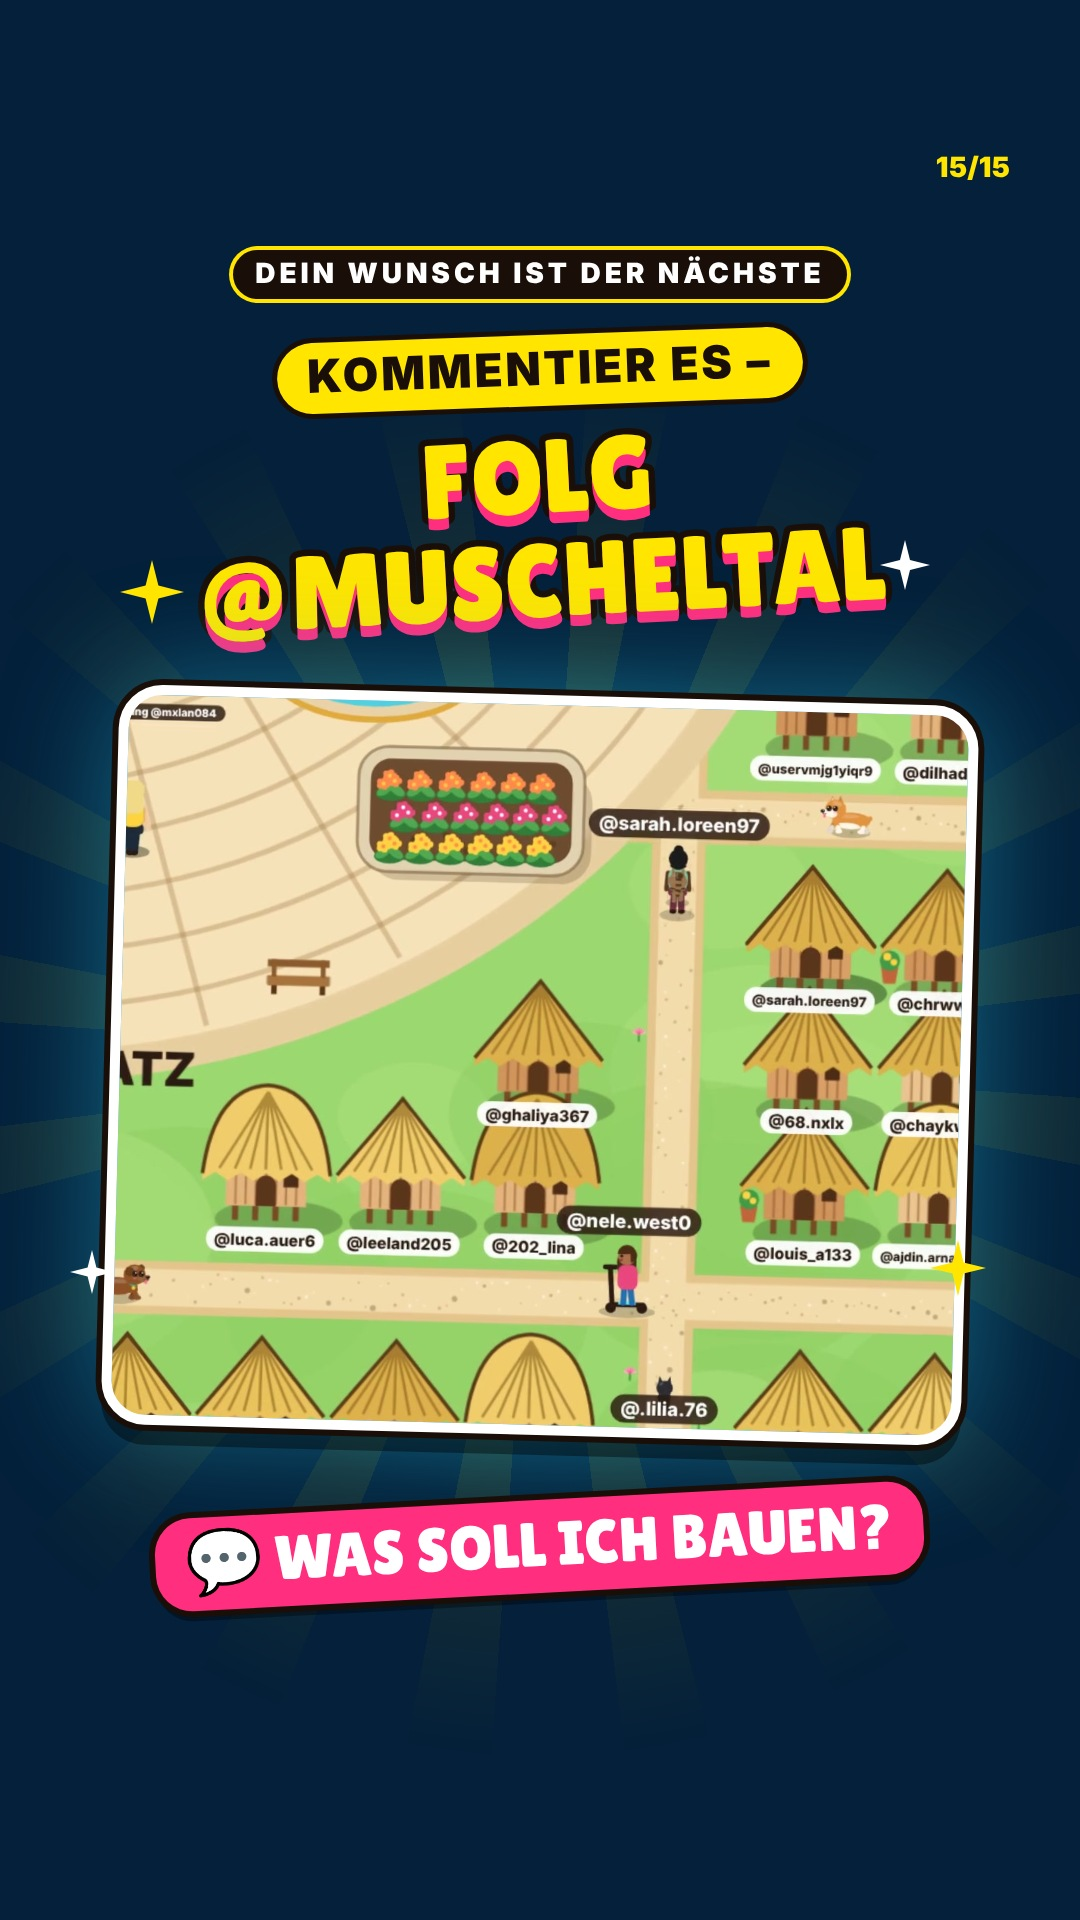
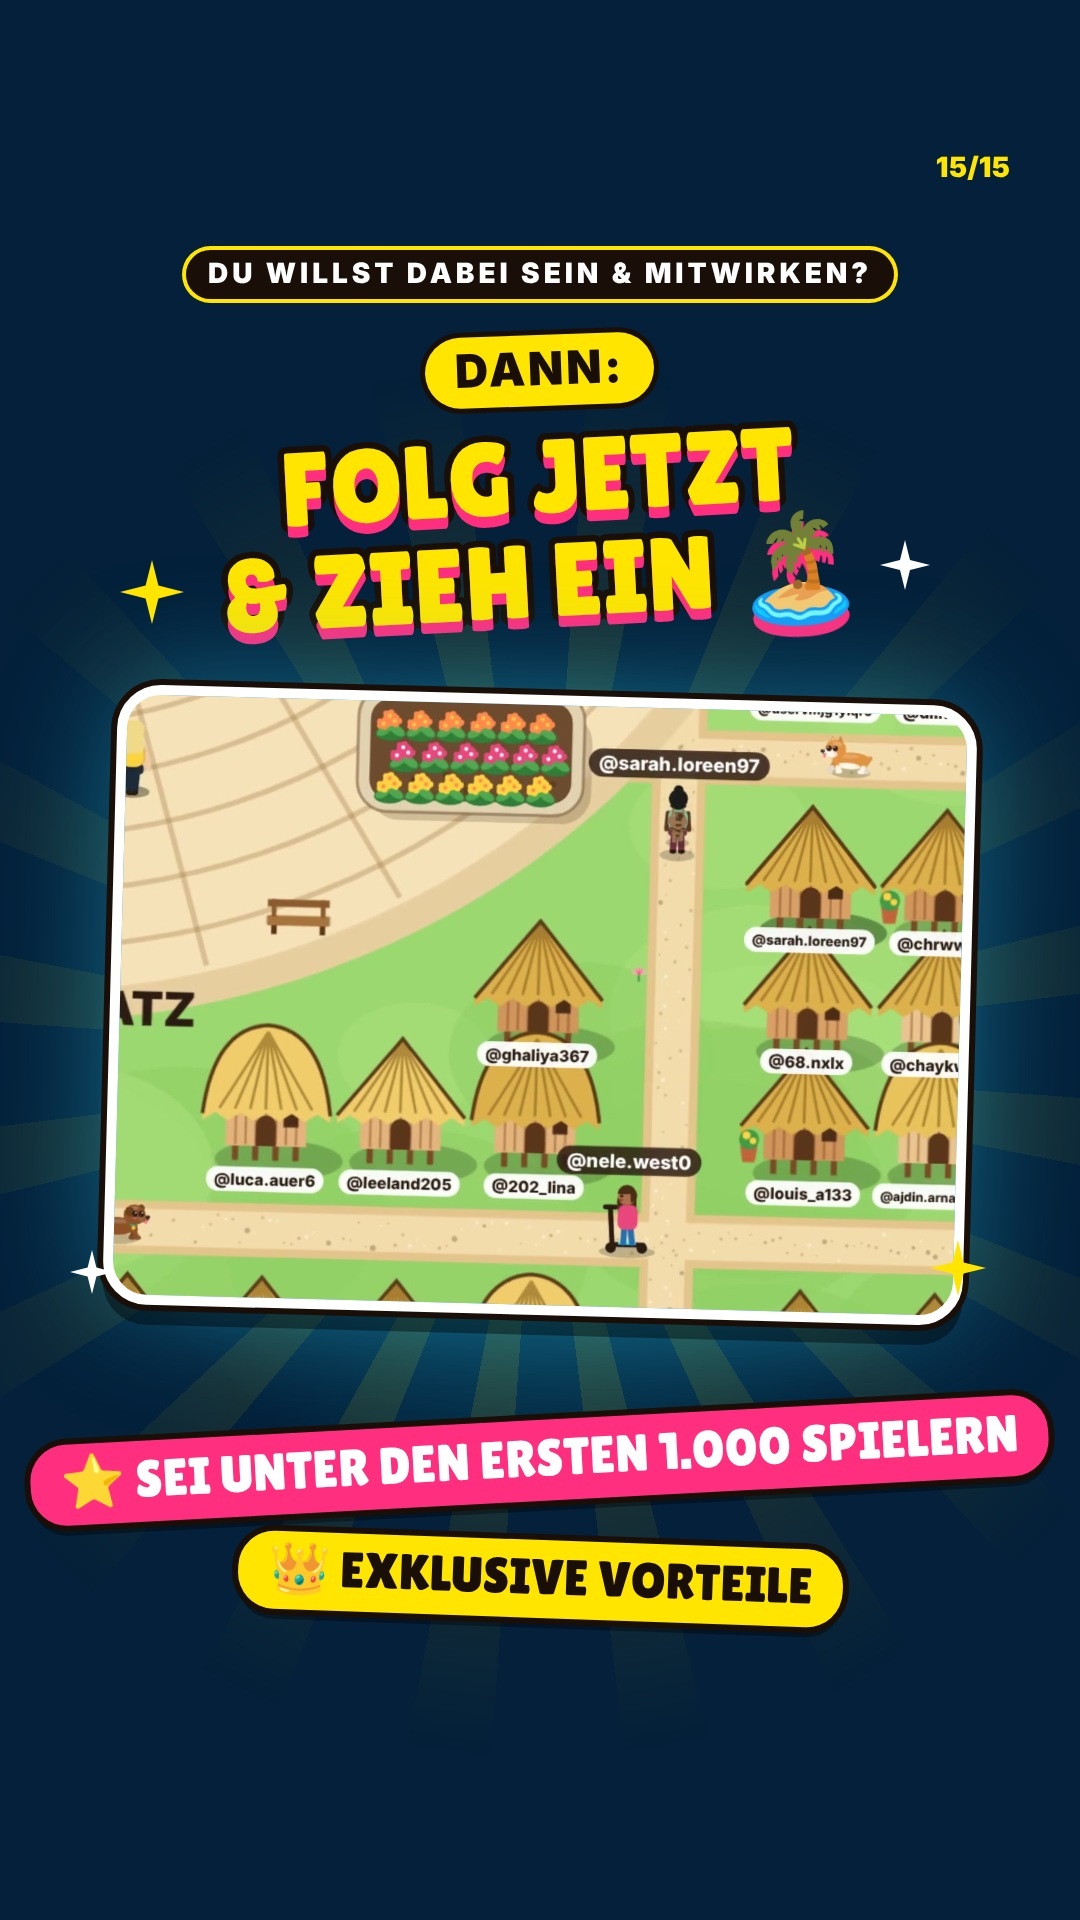
Galerie: letzte Folie – dabei sein, folgen, erste 1.000, exklusive Vorteile
Claude-Session: https://claude.ai/code/session_01McNdgWwqfWZ56Gqk3h71JF

diff --git a/videos/muscheltal-galerie-spiel/seite_15.html b/videos/muscheltal-galerie-spiel/seite_15.html
@@ -37,4 +37,4 @@ body{width:1080px;height:1920px;overflow:hidden;position:relative;background:#04
 .ok{position:absolute;left:0;right:0;margin:0 auto;width:fit-content;padding:8px 30px 12px;border-radius:36px;background:#00b86b;color:#fff;font-family:L;font-size:62px;box-shadow:0 0 0 6px #1a0f08,0 10px 0 rgba(0,0,0,.35);transform:rotate(-3deg);white-space:nowrap}
 .col{position:absolute;width:440px}.col .cm{position:relative;left:0;right:0;margin-bottom:20px}.col .bld{position:relative;left:0;width:440px;height:520px}.col .ok{position:relative;font-size:44px;margin-top:-30px}
 #ring{position:absolute;left:110px;width:860px;top:720px;height:620px;border-radius:50%;box-shadow:0 0 90px 30px rgba(255,229,0,.35)}
-</style></head><body><div id="spot"></div><div id="rays"></div><div id="nr">15/15</div><div id="ep" class="pill" style="top:250px">DEIN WUNSCH IST DER NÄCHSTE</div><div id="hd" class="pill" style="top:335px">KOMMENTIER ES –</div><div id="big" style="top:425px;font-size:104px">FOLG<br>@MUSCHELTAL</div><div id="card" style="top:695px;height:740px;background-image:url(bilder/huetten.jpg)"></div><div class="ok" style="top:1500px;background:#ff2e7e">💬 WAS SOLL ICH BAUEN?</div><svg class="sp" style="left:120px;top:560px;width:64px" viewBox="-10 -10 20 20"><path d="M0 -10 L2 -2 L10 0 L2 2 L0 10 L-2 2 L-10 0 L-2 -2Z" fill="#ffe500"/></svg><svg class="sp" style="left:880px;top:540px;width:50px" viewBox="-10 -10 20 20"><path d="M0 -10 L2 -2 L10 0 L2 2 L0 10 L-2 2 L-10 0 L-2 -2Z" fill="#fff"/></svg><svg class="sp" style="left:70px;top:1250px;width:44px" viewBox="-10 -10 20 20"><path d="M0 -10 L2 -2 L10 0 L2 2 L0 10 L-2 2 L-10 0 L-2 -2Z" fill="#fff"/></svg><svg class="sp" style="left:930px;top:1240px;width:56px" viewBox="-10 -10 20 20"><path d="M0 -10 L2 -2 L10 0 L2 2 L0 10 L-2 2 L-10 0 L-2 -2Z" fill="#ffe500"/></svg></body></html>
+</style></head><body><div id="spot"></div><div id="rays"></div><div id="nr">15/15</div><div id="ep" class="pill" style="top:250px">DU WILLST DABEI SEIN & MITWIRKEN?</div><div id="hd" class="pill" style="top:335px">DANN:</div><div id="big" style="top:425px;font-size:104px">FOLG JETZT<br>& ZIEH EIN 🏝</div><div id="card" style="top:695px;height:620px;background-image:url(bilder/huetten.jpg)"></div><div class="ok" style="top:1420px;background:#ff2e7e;font-size:52px">⭐ SEI UNTER DEN ERSTEN 1.000 SPIELERN</div><div class="ok" style="top:1540px;background:#ffe500;color:#1a0f08;font-size:50px;transform:rotate(2deg)">👑 EXKLUSIVE VORTEILE</div><svg class="sp" style="left:120px;top:560px;width:64px" viewBox="-10 -10 20 20"><path d="M0 -10 L2 -2 L10 0 L2 2 L0 10 L-2 2 L-10 0 L-2 -2Z" fill="#ffe500"/></svg><svg class="sp" style="left:880px;top:540px;width:50px" viewBox="-10 -10 20 20"><path d="M0 -10 L2 -2 L10 0 L2 2 L0 10 L-2 2 L-10 0 L-2 -2Z" fill="#fff"/></svg><svg class="sp" style="left:70px;top:1250px;width:44px" viewBox="-10 -10 20 20"><path d="M0 -10 L2 -2 L10 0 L2 2 L0 10 L-2 2 L-10 0 L-2 -2Z" fill="#fff"/></svg><svg class="sp" style="left:930px;top:1240px;width:56px" viewBox="-10 -10 20 20"><path d="M0 -10 L2 -2 L10 0 L2 2 L0 10 L-2 2 L-10 0 L-2 -2Z" fill="#ffe500"/></svg></body></html>

diff --git a/videos/muscheltal-galerie-spiel/galerie.py b/videos/muscheltal-galerie-spiel/galerie.py
@@ -14,7 +14,7 @@ S = [
  dict(duo=[("wal","🐋 Wal-Sprung"),("schild","🐢 Schildkröten")], eyebrow="SELTENE EVENTS", head="IHR BESTIMMT AUCH,", big="WAS<br>PASSIERT", stamp2="💬 WÜNSCH DIR DAS NÄCHSTE EVENT"),
  dict(pod=True, eyebrow="DAS ZIEL", head="MEISTE MUSCHELN & ERFOLGE:", big="WER WIRD<br>NR. 1? 🐚"),
  dict(img="insel", eyebrow="NUR FÜR DIE ERSTEN", head="DIE ERSTEN 1.000", big="BEKOMMEN<br>VORTEILE", bar=True),
- dict(img="huetten", eyebrow="DEIN WUNSCH IST DER NÄCHSTE", head="KOMMENTIER ES –", big="FOLG<br>@MUSCHELTAL", last=True),
+ dict(img="huetten", eyebrow="DU WILLST DABEI SEIN & MITWIRKEN?", head="DANN:", big="FOLG JETZT<br>& ZIEH EIN 🏝", last=True),
 ]
 CSS = """@font-face{font-family:L;src:url(LilitaOne-Regular.woff2)}*{box-sizing:border-box;margin:0}
 body{width:1080px;height:1920px;overflow:hidden;position:relative;background:#04203a;font-family:Inter,system-ui,sans-serif;color:#fff}
@@ -100,10 +100,10 @@ for i, s in enumerate(S, 1):
         elif s.get("pod"):
             body += f'<div class="pod" style="top:{y0+80}px;height:600px"><div class="pd p2"><i>🥈</i><b>2.</b></div><div class="pd p1"><i>🥇</i><b>1.</b></div><div class="pd p3"><i>🥉</i><b>3.</b></div></div>'
         else:
-            body += f'<div id="card" style="top:{y0+40}px;height:740px;background-image:url(bilder/{s["img"]}.jpg)"></div>'
+            body += f'<div id="card" style="top:{y0+40}px;height:{620 if s.get("last") else 740}px;background-image:url(bilder/{s["img"]}.jpg)"></div>'
         if s.get("stamp2"): body += f'<div class="ok" style="top:1470px;font-size:54px">{s["stamp2"]}</div>'
         if s.get("chips2"): body += '<div id="chips" style="top:1590px">' + "".join(f'<div class="c {c}" style="font-size:42px">{t}</div>' for c, t in s["chips2"]) + '</div>'
-        if s.get("last"): body += '<div class="ok" style="top:1500px;background:#ff2e7e">💬 WAS SOLL ICH BAUEN?</div>'
+        if s.get("last"): body += '<div class="ok" style="top:1420px;background:#ff2e7e;font-size:52px">⭐ SEI UNTER DEN ERSTEN 1.000 SPIELERN</div><div class="ok" style="top:1540px;background:#ffe500;color:#1a0f08;font-size:50px;transform:rotate(2deg)">👑 EXKLUSIVE VORTEILE</div>'
     body += STAR.format(120, 560, 64, "#ffe500") + STAR.format(880, 540, 50, "#fff") + STAR.format(70, 1250, 44, "#fff") + STAR.format(930, 1240, 56, "#ffe500")
     open(f"seite_{i:02d}.html", "w").write(f'<!doctype html><html lang="de"><head><meta charset="utf-8"><style>{CSS}</style></head><body>{body}</body></html>')
 print(len(S))
